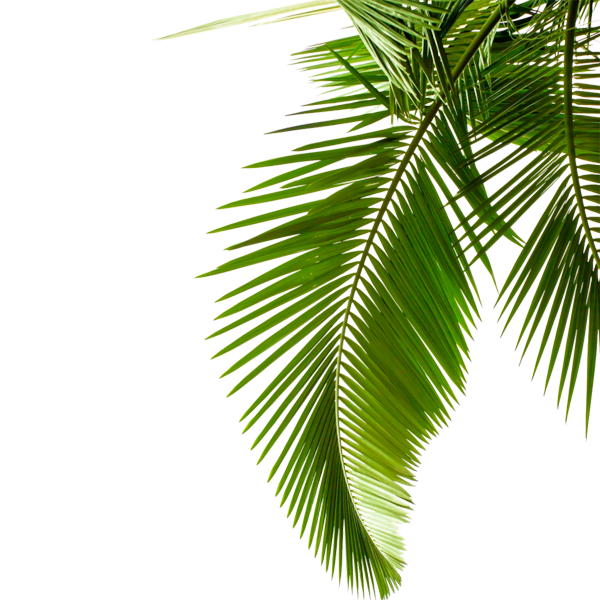
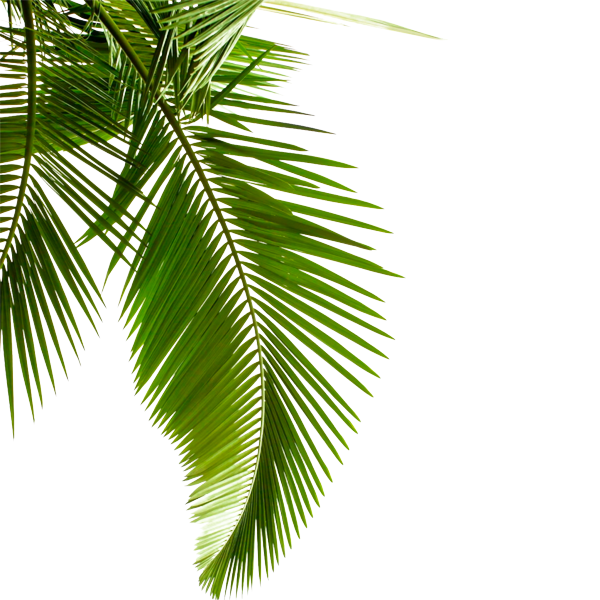
commit

diff --git a/style.css b/style.css
@@ -29,7 +29,19 @@ body{
     text-align: center;
 }
 
+#tree{
+    position: absolute;
+    z-index: 2;
+    width: 328px;
+    height: 327px;
+    left: -11%;
+    top: 360px;
+    transform: rotate(-30deg);
+}
+
 #content1{
+    position: relative;
+    z-index: 3;
     background: #f1f1f1;
     text-align: center;
     background: crimson;
@@ -420,28 +432,33 @@ body{
 }
 
 #question{
+    position: relative;
+    display: flex;
     width: 85.9665428%;
     margin-left: 7.01672862%;
     border-radius: 15%;
+    margin-bottom: 60px;
+    text-align: center;
+}
+
+#back_button{
+    position: absolute;
+    z-index: 1;
+    width: 100%;
+    height: 70px;
+    background: blue;
+    border-radius:30px 0 30px 0;
+    border: none;
 }
 
 #question_b{
+    position: absolute;
+    z-index: 3;
     width: 100%;
     height: 70px;
-    margin-bottom: 60px;
-    border-radius: 15%;
-    background: linear-gradient(#1062d3, #0e4ea8);
-    border-radius:30px 0 30px 0;
-    border: none;
-    box-shadow: 1px 1px 1px 1px #4a8ce9;
+    float: left;
+    background: none;
     font-size: 18px;
-    color: white;
-
-}
-
-#question_b:hover{
-    width: 98%;
-    height: 65px;
-    box-shadow: 2px 2px 2px 2px #4a8ce9;
+    color: black;
 }
 

diff --git a/index.html b/index.html
@@ -12,7 +12,7 @@
     <title>Rich Group</title>
 </head>
 <body>
-    
+
     <section id="user">
 
             <div id="photo_user">
@@ -34,6 +34,7 @@
     </section>
 
     <main id="content">
+        <img id="tree" src="img/tree leaf2.png">
         <div id="content1">
                 <div id="catalog"><a href="index2.html"><button id="cat">КАТАЛОГ</button></a></div>
                 <div id="discription">
@@ -48,6 +49,7 @@
 
     <footer id="footer">
         <div id="question">
+            <div id="back_button"></div>
             <button id="question_b">Задать вопрос</button>
         </div>
     </footer>
